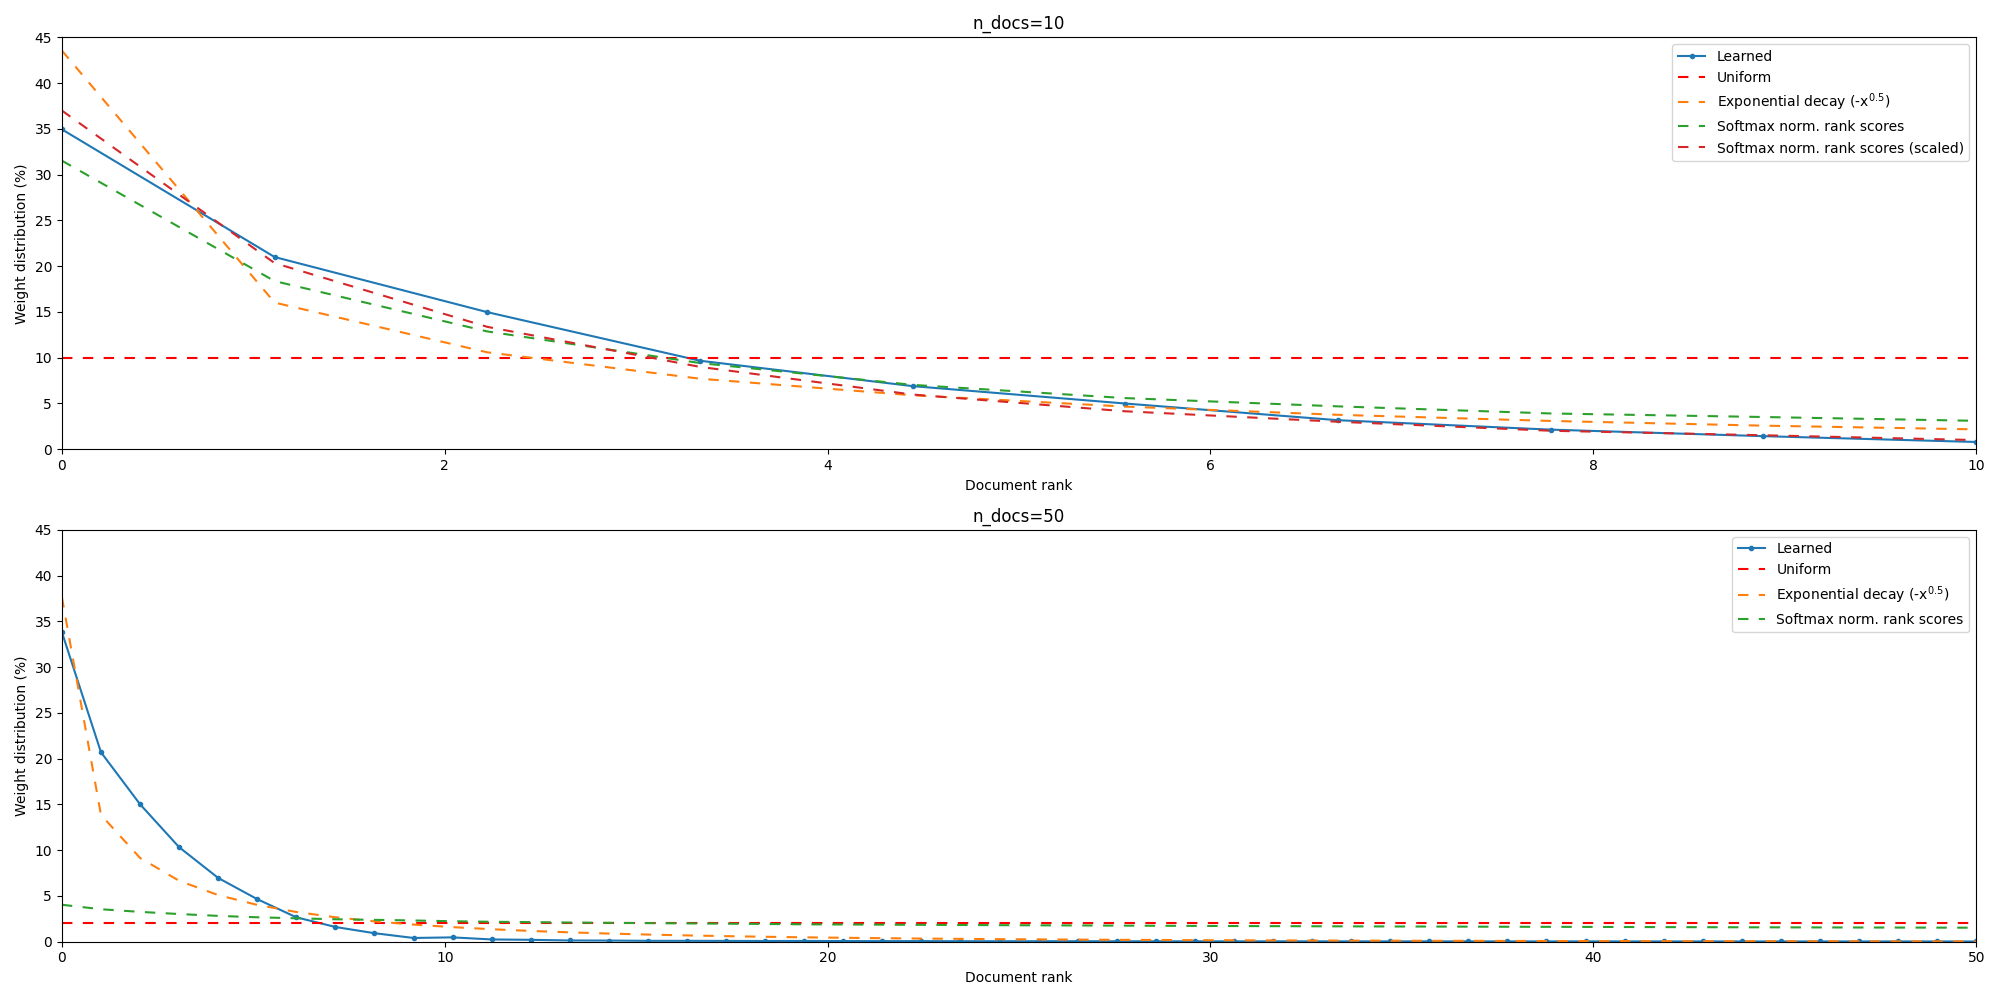
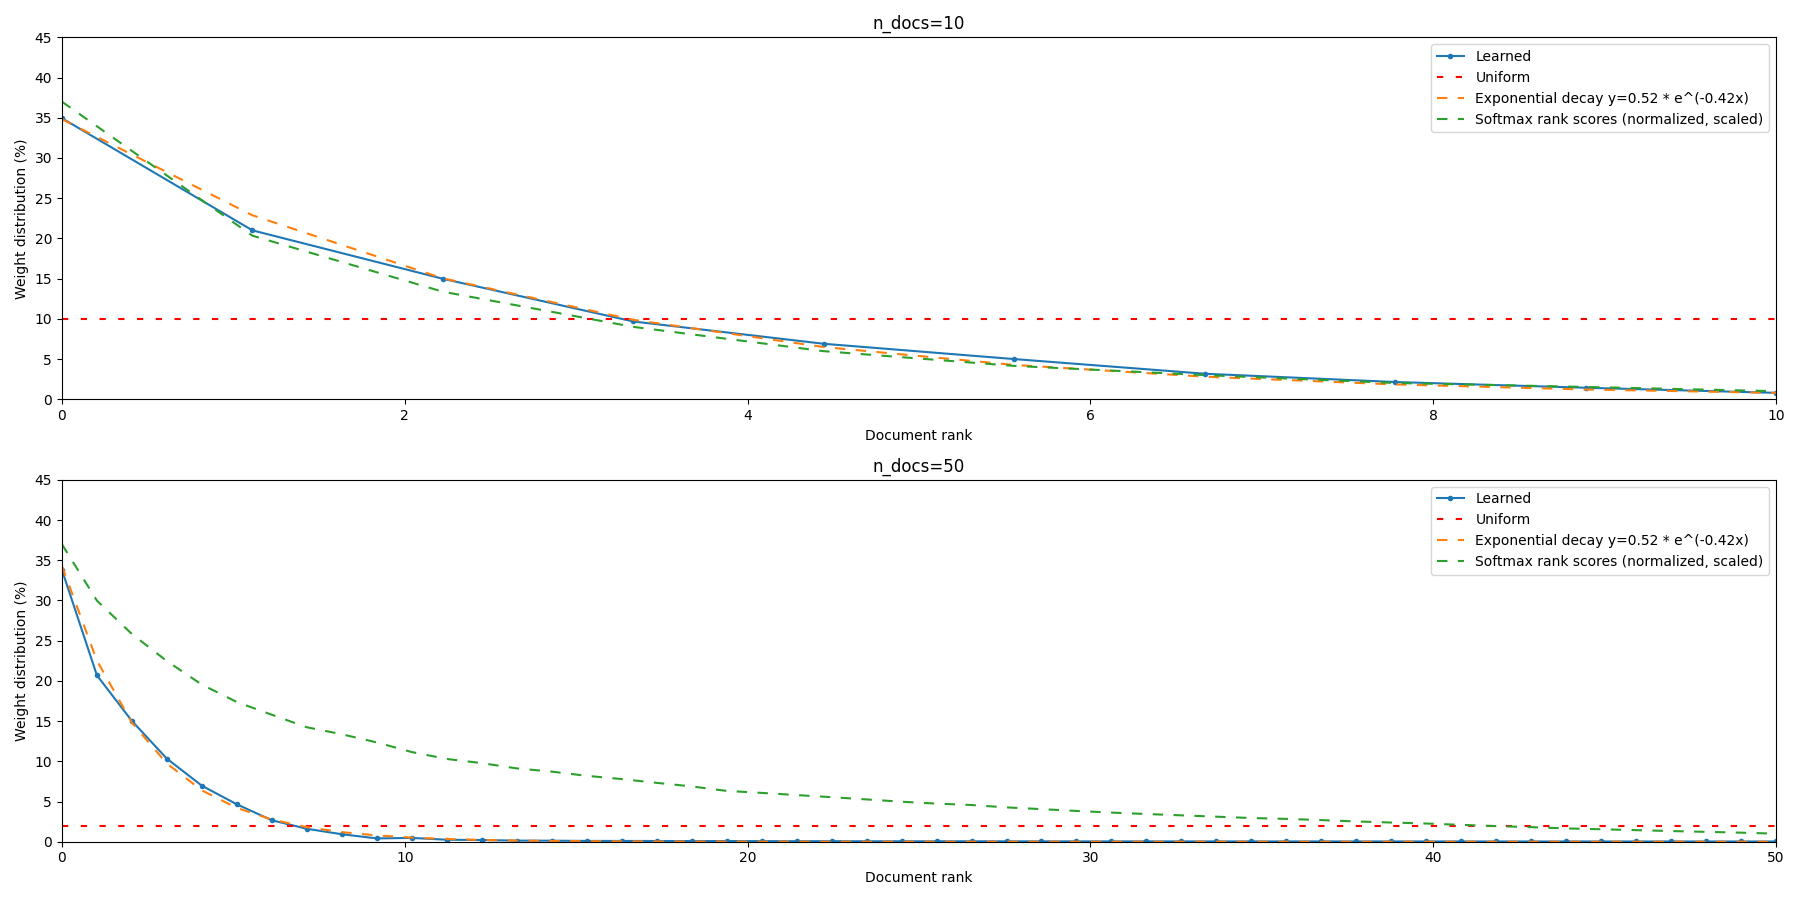
Update weight_methods plots

diff --git a/plot_data/weight_methods.py b/plot_data/weight_methods.py
@@ -19,7 +19,7 @@ def parse_args():
     return parser.parse_args()
 
 
-def plot(data: Dict[str, Any], ax: Any, include_scaled: bool = False) -> None:
+def plot(data: Dict[str, Any], ax: Any) -> None:
     n_docs = data["n_docs"]
     weights = data["weights"]
     rank_scores = data["rank_scores"]
@@ -44,29 +44,28 @@ def plot(data: Dict[str, Any], ax: Any, include_scaled: bool = False) -> None:
 
     # Add a horizontal line for uniform weight distribution
     uniform_weight = 100 / len(weights)
-    ax.axhline(y=uniform_weight, color='r', linestyle=(0, (5, 5)), label='Uniform')
+    ax.axhline(y=uniform_weight, color='r', linestyle=(0, (3, 6)), label='Uniform')
 
-    # Add exponential weight distribution
-    exp_factor = 0.5
-    exponential_approximation = np.array([np.exp(-i**exp_factor) for i in range(len(weights))])
-    exponential_approximation = exponential_approximation / np.sum(exponential_approximation) * 100
-    ax.plot(x_values, exponential_approximation, linestyle=(0, (5, 5)), label=f'Exponential decay (-x$^{{{exp_factor}}}$)')
+    # # Add exponential weight distribution
+    # exp_factor = 0.5
+    # exponential_approximation = np.array([np.exp(-i**exp_factor) for i in range(len(weights))])
+    # exponential_approximation = exponential_approximation / np.sum(exponential_approximation) * 100
+    # ax.plot(x_values, exponential_approximation, linestyle=(0, (5, 5)), label=f'Exponential decay (-x$^{{{exp_factor}}}$)')
 
-    # if include_scaled:
-    #     # Scale exponential_approximation to start at 2 and end at 35
-    #     exponential_approximation = 1 + (exponential_approximation - np.min(exponential_approximation)) * (35 - 1) / (np.max(exponential_approximation) - np.min(exponential_approximation))
-    #     ax.plot(x_values, exponential_approximation, linestyle=':', label='Exonential decay (scaled)')
+    # Exponential Decay: y = 0.52 * e^(-0.42 * x)
+    exp_decay = 0.52 * np.exp(-0.42 * np.arange(0, n_docs))
+    exp_decay = exp_decay / np.sum(exp_decay) * 100
+    ax.plot(x_values, exp_decay, linestyle=(0, (5, 5)), label='Exponential decay y=0.52 * e^(-0.42x)')
 
     # Normalize and softmax position scores and plot them as weight distribution
     rank_scores = np.array(rank_scores)
-    rank_scores_normalized = rank_scores / np.sum(rank_scores) * 100
-    softmax_rank_scores = np.exp(rank_scores_normalized) / np.sum(np.exp(rank_scores_normalized)) * 100
-    ax.plot(x_values, softmax_rank_scores, linestyle=(0, (5, 5)), label='Softmax norm. rank scores')
+    rank_scores = rank_scores / np.sum(rank_scores) * 100
+    softmax_rank_scores = np.exp(rank_scores) / np.sum(np.exp(rank_scores)) * 100
+    # ax.plot(x_values, softmax_rank_scores, linestyle=(0, (5, 5)), label='Softmax norm. rank scores')
 
-    if include_scaled:
-        # Scale softmax_rank_scores to start at 2 and end at 35
-        softmax_rank_scores = 1 + (softmax_rank_scores - np.min(softmax_rank_scores)) * (37 - 1) / (np.max(softmax_rank_scores) - np.min(softmax_rank_scores))
-        ax.plot(x_values, softmax_rank_scores, linestyle=(0, (5, 5)), label='Softmax norm. rank scores (scaled)')
+    # Scale softmax_rank_scores to start at 2 and end at 35
+    softmax_rank_scores = 1 + (softmax_rank_scores - np.min(softmax_rank_scores)) * (37 - 1) / (np.max(softmax_rank_scores) - np.min(softmax_rank_scores))
+    ax.plot(x_values, softmax_rank_scores, linestyle=(0, (5, 5)), label='Softmax rank scores (normalized, scaled)')
 
     ax.legend()
 
@@ -93,11 +92,11 @@ def main(args: argparse.Namespace) -> None:
         "rank_scores": [37.483, 35.713, 34.547, 33.523, 32.566, 31.812, 31.234, 30.64, 30.298, 29.886, 29.384, 29.012, 28.783, 28.487, 28.303, 28.06, 27.869, 27.642, 27.425, 27.148, 27.023, 26.884, 26.75, 26.606, 26.455, 26.329, 26.236, 26.076, 25.958, 25.835, 25.72, 25.622, 25.528, 25.433, 25.339, 25.277, 25.19, 25.092, 25.013, 24.941, 24.842, 24.75, 24.672, 24.575, 24.514, 24.444, 24.377, 24.315, 24.252, 24.174]
     }
 
-    fig, (ax1, ax2) = plt.subplots(2, 1, figsize=(20, 10))
+    fig, (ax1, ax2) = plt.subplots(2, 1, figsize=(18, 9))
     plt.subplots_adjust(hspace=0.3)
 
-    plot(data_10, ax1, include_scaled=True)
-    plot(data_50, ax2, include_scaled=False)
+    plot(data_10, ax1)
+    plot(data_50, ax2)
 
     fig.tight_layout()
     fig.savefig("plot_data/figures/weight_methods.png", transparent=True)
